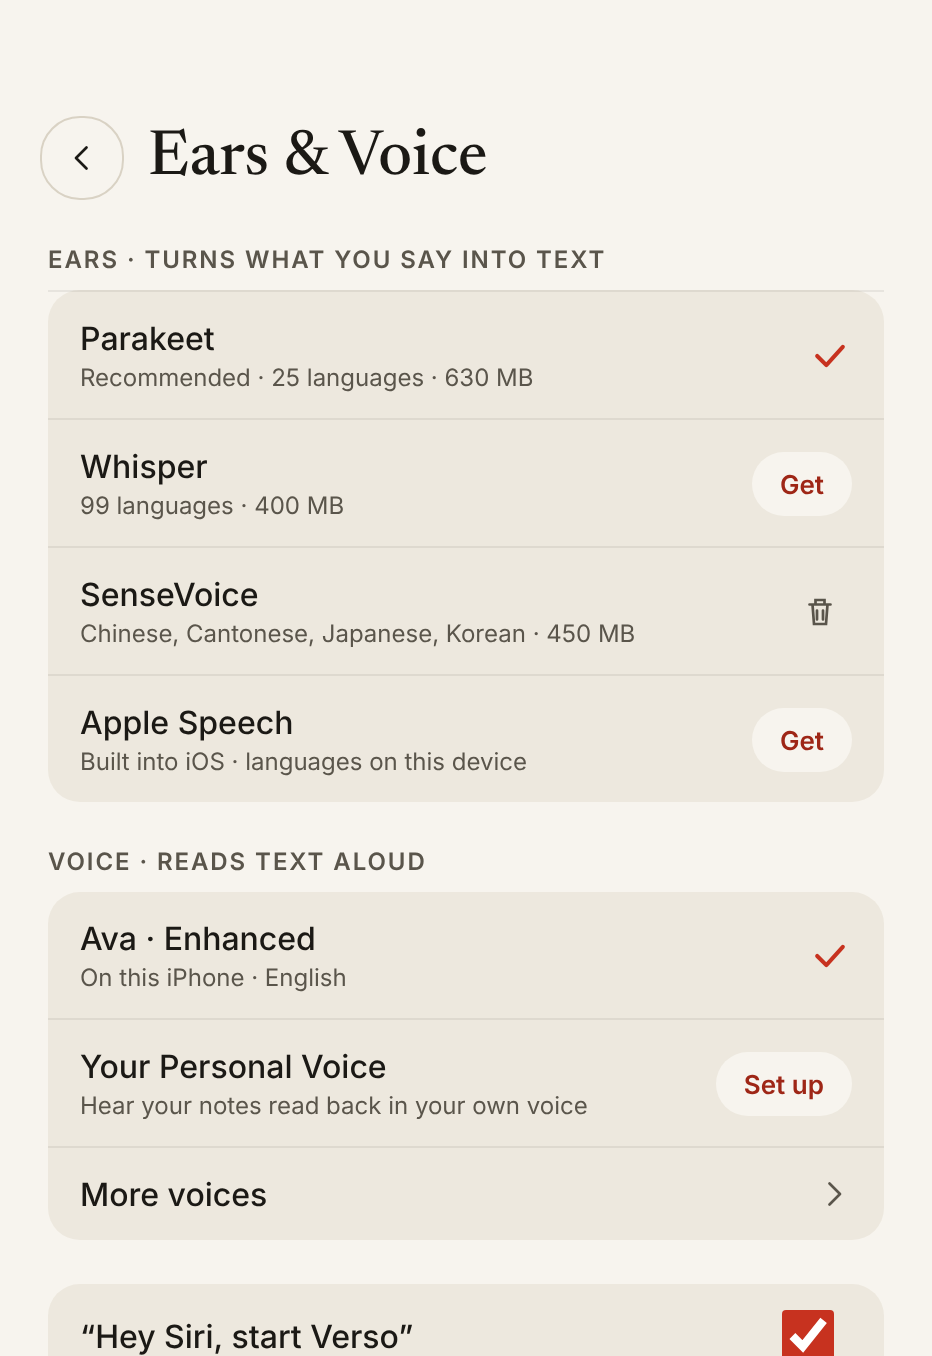
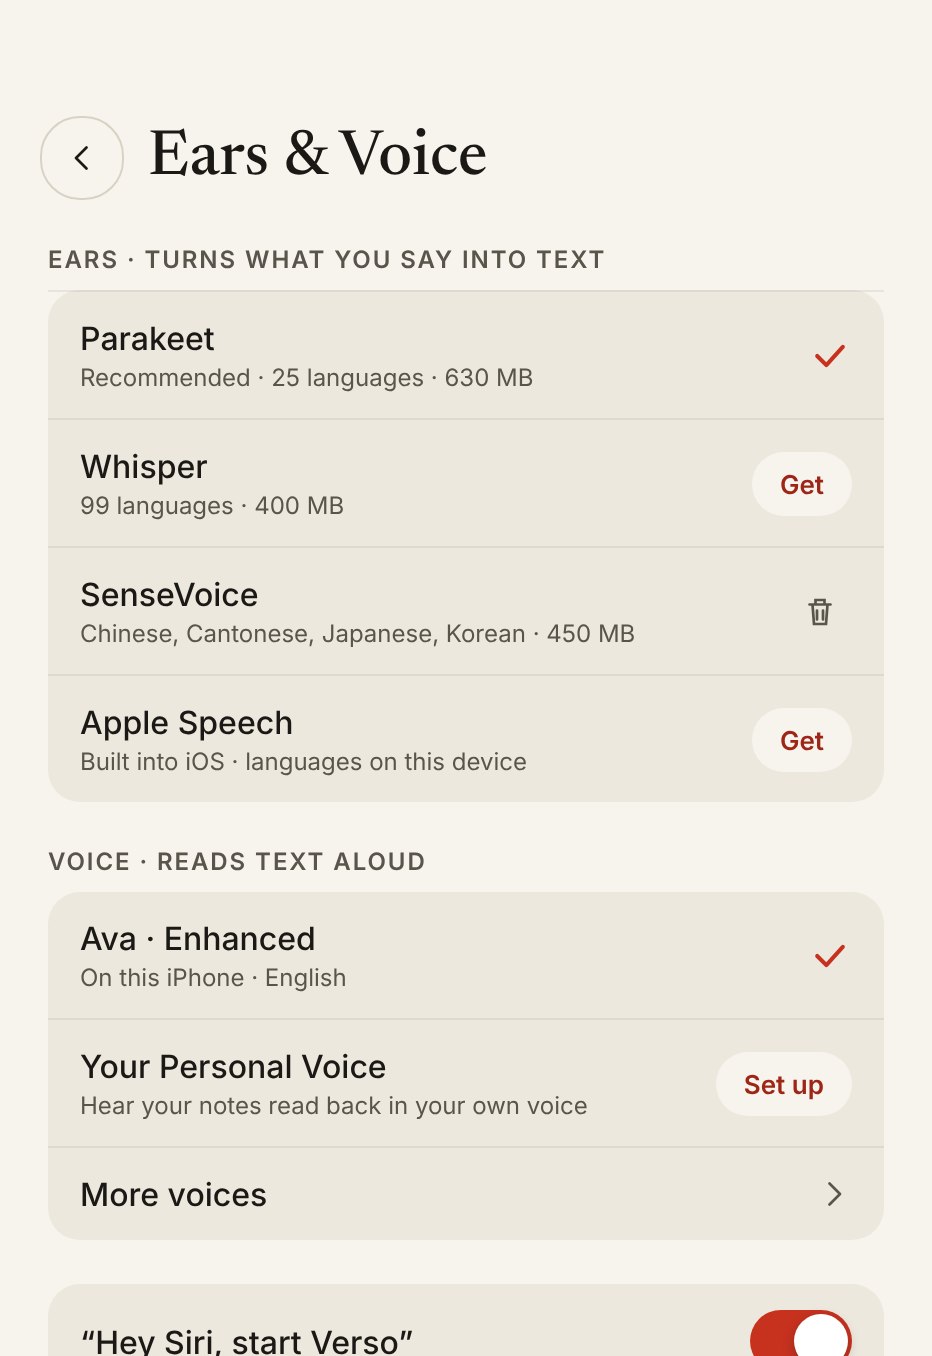
Draw an iOS switch on the Settings artboard
Claude-Session: https://claude.ai/code/session_01VYznkeokhQ39DhSKdoSDo2

Changed region(s): [[0.0933, 0.9602, 0.4356, 1.0], [0.809, 0.9602, 0.9335, 1.0]]

diff --git a/design/canvas/Settings.dc.html b/design/canvas/Settings.dc.html
@@ -76,7 +76,11 @@ button{font-family:inherit}
   <div style="display: flex; flex-direction: column; gap: 8px">
     <div style="background: #EDE8DE; border-radius: 16px; display: flex; align-items: center; gap: 12px; padding: 13px 16px">
       <label for="siri" style="flex: 1; font-size: 16px; font-weight: 500; color: #1B1915">“Hey Siri, start Verso”</label>
-      <input id="siri" type="checkbox" checked style="width: 44px; height: 26px; accent-color: #C7321F; margin: 0">
+      <label for="siri" aria-label="Hey Siri, start Verso" style="position: relative; width: 51px; height: 31px; display: block; cursor: pointer">
+        <input id="siri" type="checkbox" checked style="position: absolute; opacity: 0; width: 0; height: 0; margin: 0">
+        <div aria-hidden="true" style="position: absolute; inset: 0; border-radius: 16px; background: #C7321F"></div>
+        <div aria-hidden="true" style="position: absolute; top: 2px; left: 22px; width: 27px; height: 27px; border-radius: 14px; background: #FFFFFF; box-shadow: 0 2px 6px rgba(27,25,21,0.25)"></div>
+      </label>
     </div>
   </div>
 
